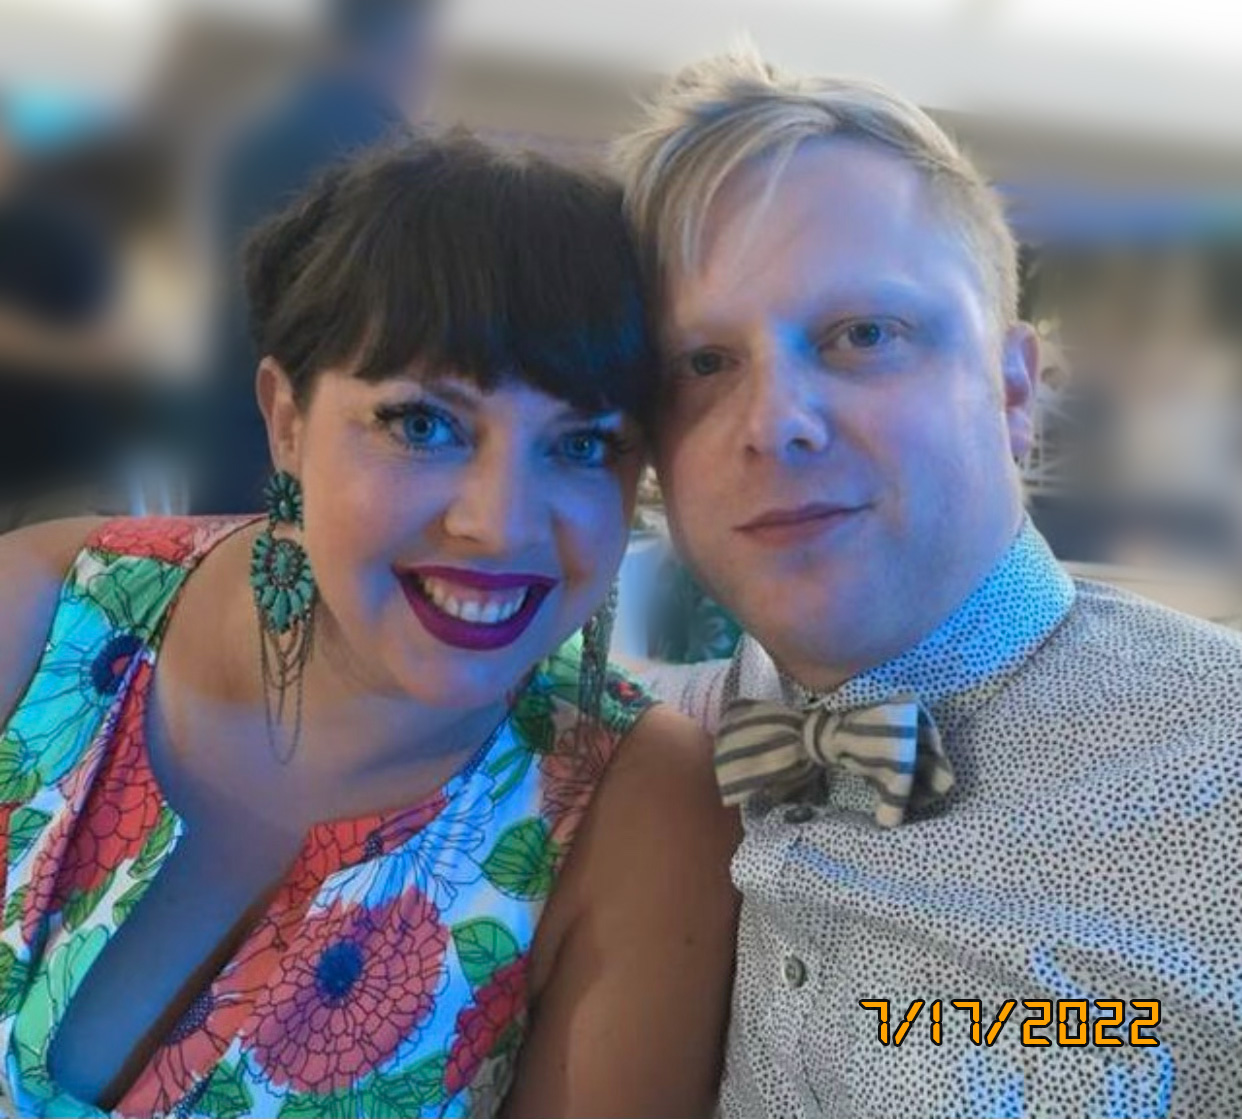
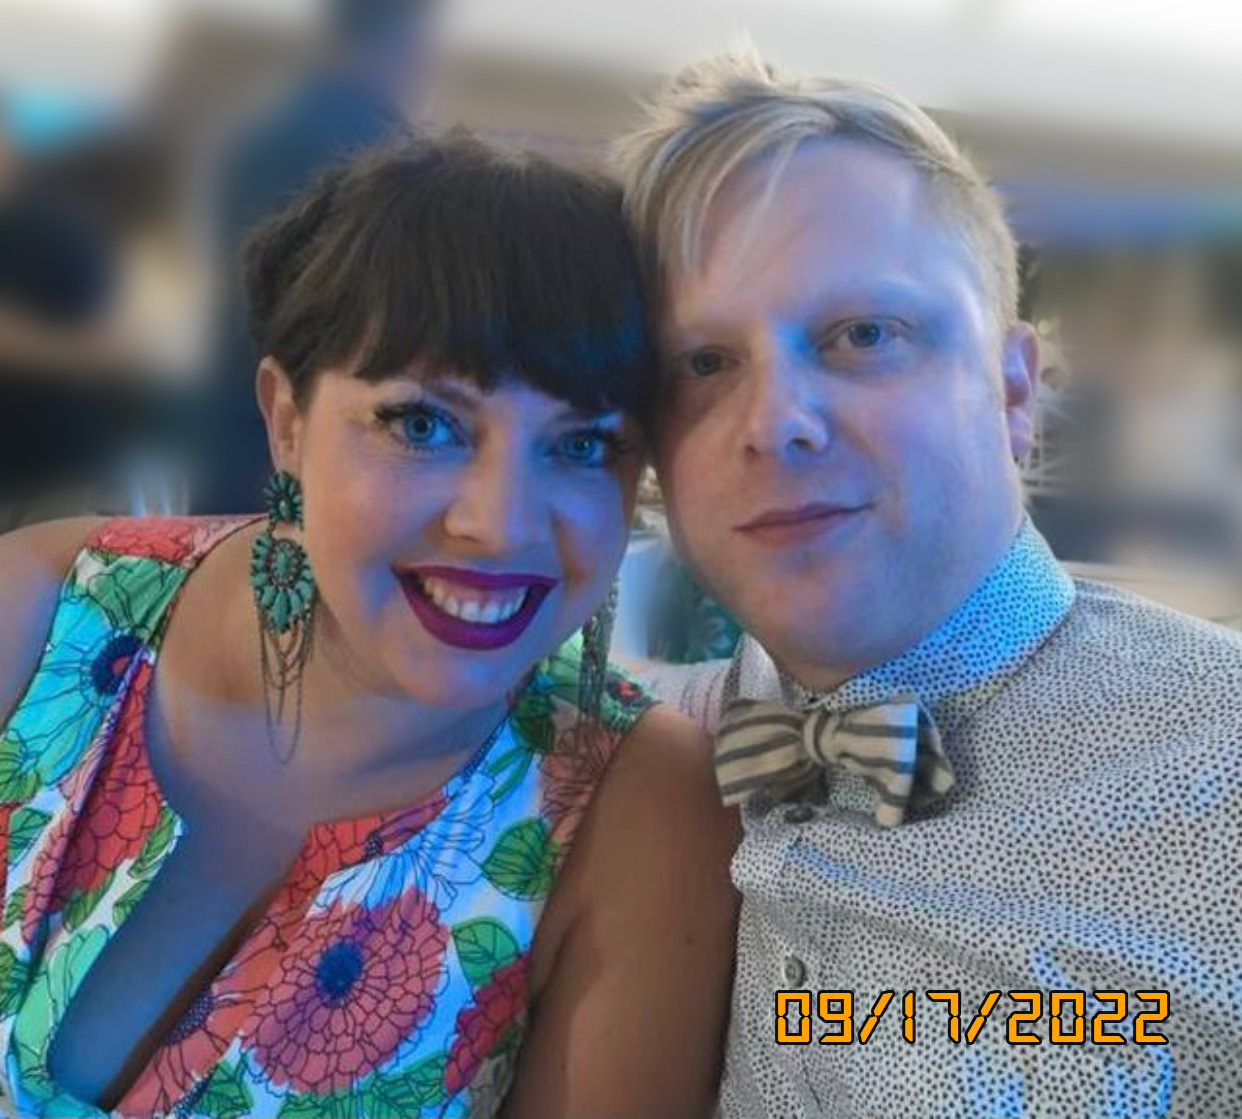
style tweaks and text

Changed region(s): [[0.6119, 0.8811, 0.9485, 0.9419]]

diff --git a/index.html b/index.html
@@ -54,19 +54,25 @@
         padding-top: 8rem;
       }
       img {
-        box-shadow: rgba(0, 0, 0, 0.5) 3px 3px 12px;
+        box-shadow: rgba(0, 0, 0, 0.5) 5px 5px 20px;
         border-radius: 0.3rem;
         width: 90%;
         max-width: 621px;
       }
       .description {
         padding: 4rem 2rem 6rem 2rem;
+        text-align: center;
         color: #fff;
       }
+      .description h2 {
+        font-weight: bold;
+        text-shadow: rgba(0, 0, 0, 0.8) 1px 1px 1px;
+      }
       .description p {
-        text-align: center;
         font-size: 1rem;
+        padding-bottom: 0.25rem;
         /* color: rgba(0, 0, 0, 0.5); */
+        text-shadow: rgba(0, 0, 0, 0.6) 1px 1px 3px;
       }
       .desktop-only {
         display: inline-block;
@@ -80,7 +86,7 @@
         }
         .description p {
           width: 75%;
-          margin: 0 auto 0.5rem auto;
+          margin: 0 auto 1rem auto;
         }
         .desktop-only {
           display: none;
@@ -89,80 +95,32 @@
           margin-top: 2rem;
         }
       }
-      h1 {
-        font-size: 2.25rem;
-        margin-bottom: 0;
-      }
-      @media (min-width: 768px) {
-        h1 {
-          font-size: 3.5rem;
-        }
-      }
-      h1 a {
-        color: #a5928e;
-      }
-      h1 span {
-        color: #fff90a;
-      }
       h2 {
         font-weight: normal;
         margin-top: 1rem;
         margin-bottom: 2rem;
       }
-      h2 a {
-        color: #fff;
-      }
-      h2 i {
-        margin-right: 0.5rem;
-      }
-      h3 {
-        font-family: "Gill Sans", "Gill Sans MT", Calibri, "Trebuchet MS",
-          sans-serif;
-        font-size: 2rem;
-        font-weight: lighter;
-      }
       a {
-        text-decoration: none;
-        color: #fff;
-      }
-      p {
-        text-align: left;
-        font-size: 1.25rem;
-      }
-      b {
-        font-weight: 500;
-      }
-      .row {
-        overflow: hidden;
-        margin-top: 3rem;
-      }
-      .grid-half {
-        width: 48%;
-        margin-right: 2%;
-        margin-bottom: 20px;
-        float: left;
+        color: #17a9e2;
       }
       a img {
         border: none;
-      }
-      @media (min-width: 768px) {
-        .d-md-none {
-          display: none !important;
-        }
       }
     </style>
 
     <div class="main">
       <img src="save-the-date.jpg" alt="Josh & Betsy" />
       <div class="description">
-        <h2>Join us September 17th on Camano.</h2>
+        <h2>Join us September 17th Camano Island, WA</h2>
         <p>
-          Website and details forthcoming. <br class="desktop-only" />Ceremony @
-          5pm on Saturday.
+          Ceremony @ 5pm on Saturday.<br class="desktop-only" />
+          Hangout Friday to Sunday if you can.
         </p>
+        <p>Website and details coming soon.</p>
         <p>
-          Please come hangout Friday - Sunday if you can. Lots of camping close
-          by will be available (with showers).
+          Overnighters-- lots of camping close-by will be available (with
+          showers). Check your email for other options, help requests, and
+          instructions for max enjoyment of the weekend.
         </p>
       </div>
     </div>
